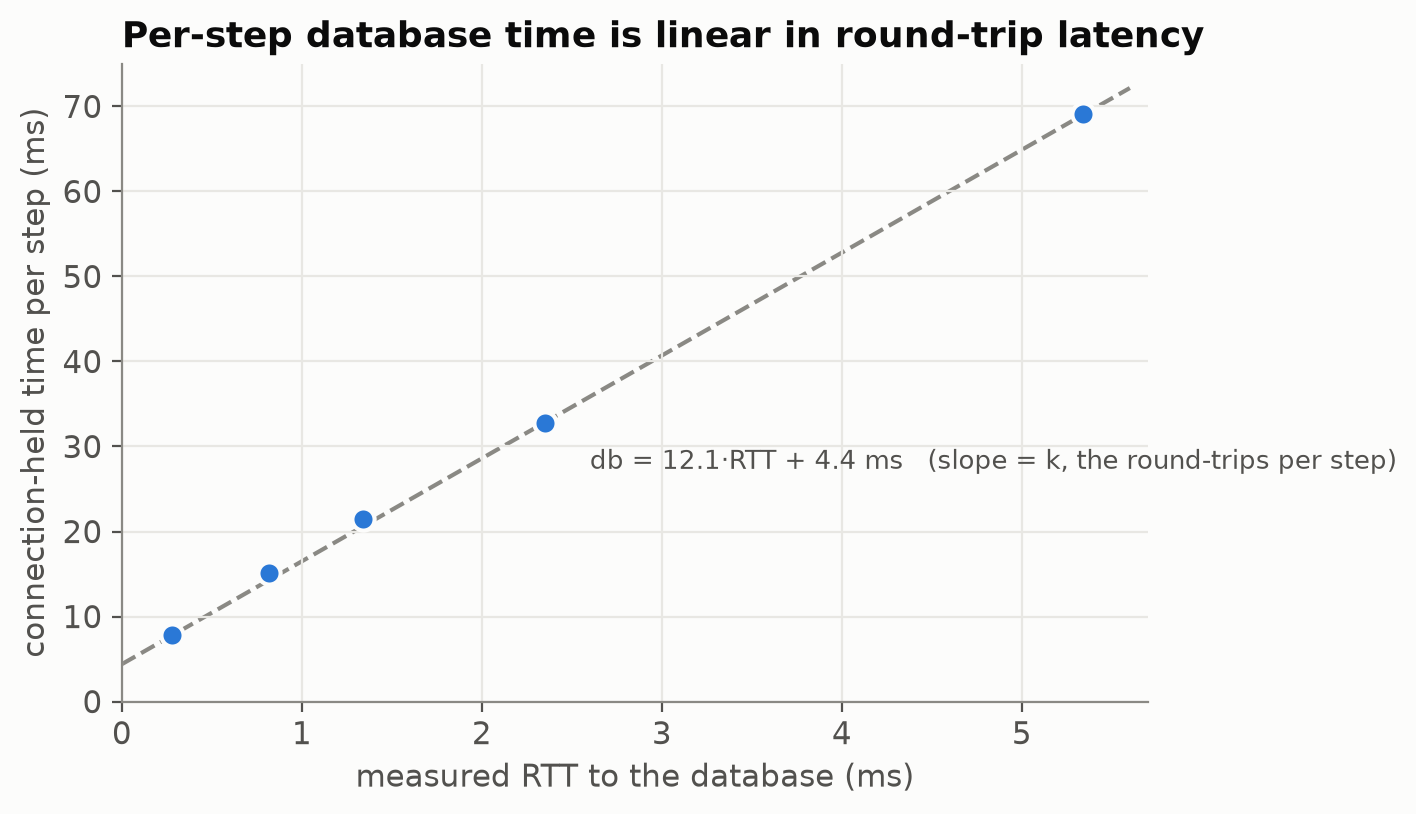
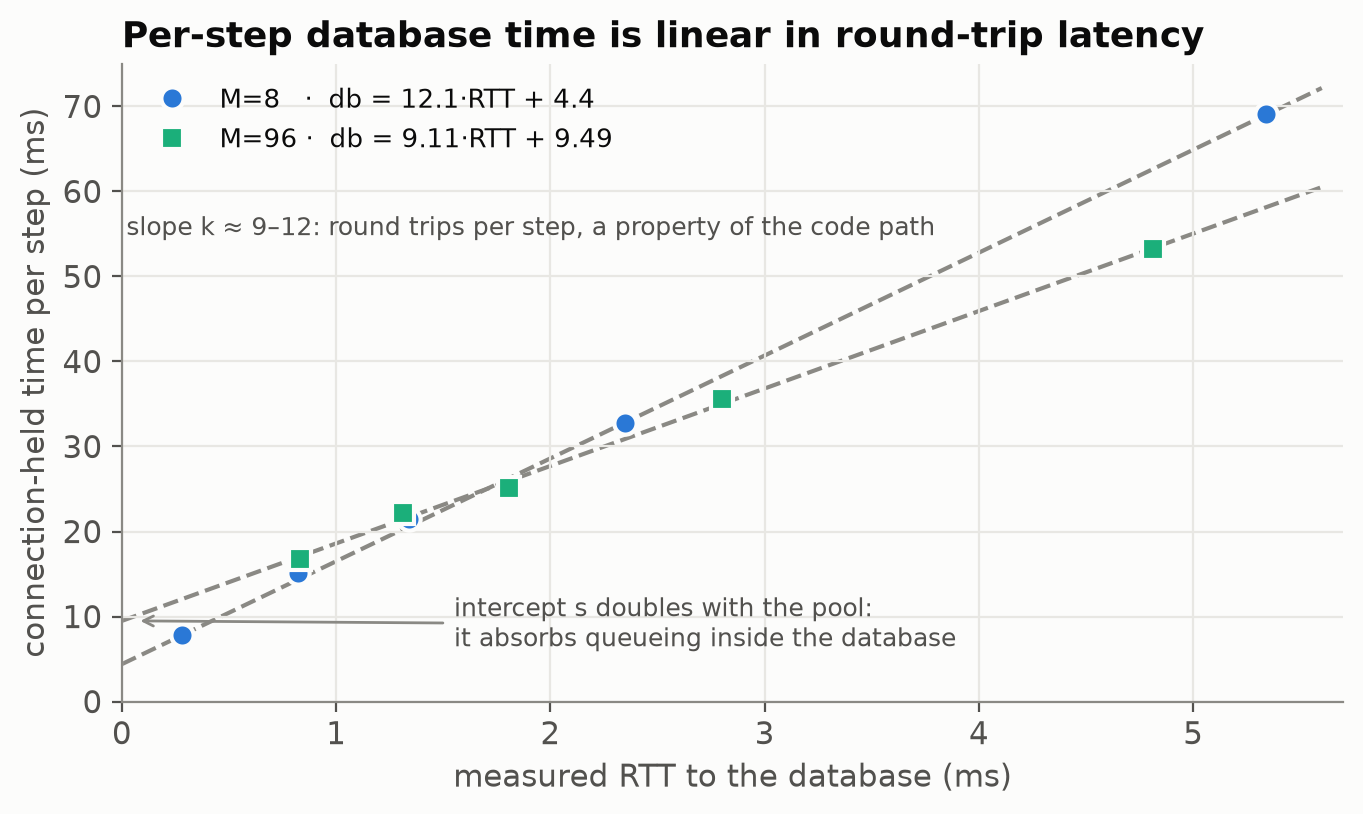
docs: the long-task bimodality is gone, and RTT is a sizing input
Three corrections and one addition, all from the 2026-08-01 GCP campaign.

THE BIMODALITY IS GONE. The self-tuning section said an 8-second arm near the
ceiling ranged 1,369-6,824 steps/s across three identical runs. Re-measured at
~80% of one 16-vCPU shard's knee: 3,004-3,285, a 1.09x spread, with the
zero-delay control repeating to the step. The mechanism it was blamed on is
still visible - the selection pass slows 2.9 to 48 ms and connection wait rises
2.2 to 30 ms - it simply stopped collapsing.

The causal sentence was also backwards. It read as though candidate supply lost
a fight with dispatch; the discard counter says supply was OVERSUPPLYING by
38-42% at 8 s tasks, so a slower scan cost nothing while workers were the scarce
side. Database CPU is flat at 43-49% across 0/1/8 s while the worker count grows
45x, which is the "a worker inside a task holds no connection" property measured
directly rather than argued. What long tasks still cost at that load is
offered-rate headroom: the arm serves ~72% of the commanded flow rate while
executing 92-101% of everything it creates, so it is flow CREATION that throttles.

"LATENCY COSTS CONNECTIONS, NOT THROUGHPUT" was true only where it was measured.
That sweep pinned M=8, far below the pool's knee, so there was headroom to raise
M and absorb the latency. At the pool the engine actually derives there is none:
4 ms of added distance costs 3.2x the throughput and nothing recovers it. The
[…]

diff --git a/bench/charts.py b/bench/charts.py
@@ -62,23 +62,59 @@ ax.set_ylim(0, 5000)
 ax.legend(loc="upper left", frameon=False, fontsize=9.5)
 finish(fig, ax, f"{OUT}/benchmark-cloud-tiers.png")
 
-# ---- 2. Latency: conn-held time vs RTT (the k measurement) ----
-rtt = [0.28, 0.82, 1.34, 2.35, 5.34]
-held = [8/1021.2*1000, 8/529.3*1000, 8/372.0*1000, 8/243.9*1000, 8/115.7*1000]
+# ---- 2. Latency: conn-held time vs RTT, at TWO pool sizes (the k and s measurements) ----
+# Two sweeps, and the pair is the point: the SLOPE (k, round trips per step) barely moves between them,
+# while the INTERCEPT (s, time actually inside the database) nearly doubles - s absorbs queueing, so it
+# grows with the pool. Carrying M=8 constants to an M=96 rig over-predicts throughput by 21-44%.
+rtt8 = [0.28, 0.82, 1.34, 2.35, 5.34]
+held8 = [8/1021.2*1000, 8/529.3*1000, 8/372.0*1000, 8/243.9*1000, 8/115.7*1000]
+rtt96 = [0.829, 1.313, 1.806, 2.800, 4.814]                       # campaign 27, linear, M=96
+held96 = [16.77, 22.19, 25.06, 35.63, 53.21]                      # every arm verified 96/96 in use
 fig, ax = plt.subplots(figsize=(7, 4.2))
 xs = [0, 5.6]
 ax.plot(xs, [12.1*x + 4.4 for x in xs], color=MUTED, linewidth=1.5, linestyle="--", zorder=1)
-ax.plot(rtt, held, color=S1, linewidth=0, marker="o", markersize=8, zorder=2,
-        markeredgecolor=SURFACE, markeredgewidth=1.5, label="measured (M=8, connection-bound)")
-ax.annotate("db = 12.1·RTT + 4.4 ms   (slope = k, the round-trips per step)",
-            (2.6, 12.1*2.6 + 4.4), xytext=(0, -26), textcoords="offset points",
-            color=INK2, fontsize=9.5, rotation=0)
+ax.plot(xs, [9.11*x + 9.49 for x in xs], color=MUTED, linewidth=1.5, linestyle="--", zorder=1)
+ax.plot(rtt8, held8, color=S1, linewidth=0, marker="o", markersize=8, zorder=3,
+        markeredgecolor=SURFACE, markeredgewidth=1.5, label="M=8   ·  db = 12.1·RTT + 4.4")
+ax.plot(rtt96, held96, color=S2, linewidth=0, marker="s", markersize=8, zorder=3,
+        markeredgecolor=SURFACE, markeredgewidth=1.5, label="M=96 ·  db = 9.11·RTT + 9.49")
+ax.annotate("slope k ≈ 9–12: round trips per step, a property of the code path",
+            (3.9, 12.1*3.9 + 4.4), xytext=(-8, 10), textcoords="offset points",
+            color=INK2, fontsize=9, ha="right")
+ax.annotate("intercept s doubles with the pool:\nit absorbs queueing inside the database",
+            (0.06, 9.49), xytext=(1.55, 6.5), textcoords="data", color=INK2, fontsize=9,
+            arrowprops=dict(arrowstyle="->", color=MUTED, lw=1))
 ax.set_title("Per-step database time is linear in round-trip latency")
 ax.set_xlabel("measured RTT to the database (ms)")
 ax.set_ylabel("connection-held time per step (ms)")
 ax.set_xlim(0, 5.7)
 ax.set_ylim(0, 75)
+ax.legend(loc="upper left", frameon=False, fontsize=9.5)
 finish(fig, ax, f"{OUT}/benchmark-cloud-latency.png")
+
+# ---- 2b. The operator-facing form: what RTT does to the CEILING at the derived pool ----
+# Same data as 2, expressed as throughput rather than occupancy, because that is the number an operator
+# is sizing against. The GENUINE-PLACEMENT points are the validation: if netem were not a faithful
+# stand-in for distance they would sit off the curve. They land within 2-6%.
+fig, ax = plt.subplots(figsize=(7, 4.2))
+xs = [x/100 for x in range(20, 520)]
+ax.plot(xs, [96/(9.11*x + 9.49)*1000 for x in xs], color=MUTED, linewidth=1.5, linestyle="--", zorder=1,
+        label="96 / (9.11·RTT + 9.49)")
+ax.plot(rtt96, [96/h*1000 for h in held96], color=S1, linewidth=0, marker="o", markersize=8, zorder=3,
+        markeredgecolor=SURFACE, markeredgewidth=1.5, label="injected latency (tc netem)")
+ax.plot([0.339, 0.378, 0.818], [7866, 7887, 5568], color=S3, linewidth=0, marker="D", markersize=8,
+        zorder=4, markeredgecolor=SURFACE, markeredgewidth=1.5,
+        label="genuine placements, two different instances")
+ax.annotate("two same-zone, same-tier instances —\n29% apart on placement alone",
+            (0.60, 6600), xytext=(1.35, 4400), textcoords="data", color=INK2, fontsize=9,
+            arrowprops=dict(arrowstyle="->", color=MUTED, lw=1))
+ax.set_title("Round-trip time sets the ceiling (16 vCPU, derived pool M=96)")
+ax.set_xlabel("measured RTT to the database (ms)")
+ax.set_ylabel("steps / second")
+ax.set_xlim(0, 5.2)
+ax.set_ylim(0, 9000)
+ax.legend(loc="lower left", frameon=False, fontsize=9.5)
+finish(fig, ax, f"{OUT}/benchmark-cloud-rtt-ceiling.png")
 
 # ---- 3. Workers x task delay (pre-fix engine, M=30) ----
 w0 = [(32, 443.5), (48, 558.9), (64, 641.8), (96, 696.6), (128, 707.2), (512, 744.1)]

diff --git a/docs/benchmark-cloud.md b/docs/benchmark-cloud.md
@@ -75,8 +75,8 @@ is negligible next to both. Every constant is measured:
 
 | Constant | Value | How measured |
 |---|---|---|
-| `k` — database round-trips per step | **~11** | the slope of connection-held time vs round-trip time in the [latency sweep](#latency-costs-connections-not-throughput) |
-| `s` — server-side execution + group-committed fsync | **~4.4 ms** | that sweep's intercept |
+| `k` — database round-trips per step | **~9–12** | the slope of connection-held time vs round-trip time in the [latency sweep](#round-trip-time-sets-the-ceiling); a property of the code path, so it travels — but a fan-out does more database work per step than the linear workload measured here |
+| `s` — server-side execution + commit, **plus queueing inside the database** | **~4.4 ms at `M=8`, ~9.5 ms at `M=96`** | the same sweep's intercept, at both pool sizes. **`s` grows with the pool and does not travel** — constants fitted at one `M` over-predict another by 21–44% |
 | `db` at low utilization, same-zone | **7–8 ms/step** | measured at `M=8`, a deliberately tiny pool that keeps the database far from saturation |
 | Connections the engine opens | **6 × database vCPUs**, or **12 ×** at 32 vCPUs and above | [the knee and the safe ratio](#connections-the-throughput-knee-and-the-safe-ratio-are-different-numbers) |
 | Steps ceiling, per database | **~555 to ~23,000 steps/s** for 1 to 64 vCPUs | [vertical scaling](#database-size-vertical-scaling-from-1-to-64-vcpus) |
@@ -120,6 +120,14 @@ leaves the diagonal is the whole chart: that is the load the instance actually s
 servable point lands at **70–90% database CPU**, and every arm above ~90% is either collapsed or running
 multi-second p99. Size to keep the database in that band and the connection arithmetic mostly takes care
 of itself.
+
+**⚠ That band assumes a well-placed database, and it does not travel.** It was calibrated at ~0.3 ms
+round-trip time. On a longer path the connections run out *before* the CPU does: at 0.8 ms the same
+16-vCPU shard reaches its ceiling with the pool pinned at 96/96 and the database sitting at **51%
+CPU**, with 45% of it idle and unreachable. Chasing the 70–90% band there means adding connections to
+hit a number that path cannot produce — and over-connecting is the one failure mode that collapses
+rather than degrading. **Check round-trip time first**; if the ceiling arrives at low CPU, the limit is
+distance, not size. See [round-trip time sets the ceiling](#round-trip-time-sets-the-ceiling).
 
 **⚠ The 32 and 64-vCPU points are bounds, not measured ceilings.** Database CPU at their best arms was
 49% and 24% — neither instance was ever driven to its own limit, because the 32-vCPU engine host driving
@@ -226,7 +234,7 @@ traffic on a single lock (113 concurrent waiters, the same as the baseline's 115
 arm split it across two independent locks (110 + 69). **Horizontal sharding across servers is the write
 scaling lever**; there is no way to buy it inside one instance.
 
-## Latency costs connections, not throughput
+## Round-trip time sets the ceiling
 
 ![Per-step database time vs round-trip latency](benchmark-cloud-latency.png)
 
@@ -249,10 +257,54 @@ A step makes ~11 of them (a freshly created step is dispatched without a re-read
 `k ≈ 11`** and treat the fitted 12.1 as the sweep's own configuration. The intercept is `s`, the
 server-side execution and commit time that remains when the network is free.
 
-The practical reading: per-connection throughput halves as `k·L` doubles — and total throughput recovers
-by raising `M` (until the knee), so latency is a **connections tax, not an absolute cap**. Cross-zone
-placement (~1.1 ms) roughly doubles `db` against same-zone; co-locating the engine with its shard's zone
-is the single cheapest win available.
+The practical reading at this pool size: per-connection throughput halves as `k·L` doubles, and total
+throughput recovers by raising `M` — so *while there is pool headroom*, latency is a connections tax.
+
+**⚠ At the pool the engine actually derives, that headroom is gone and latency becomes a hard
+throughput cap.**
+
+![Round-trip time sets the ceiling at the derived pool](benchmark-cloud-rtt-ceiling.png)
+
+Repeating the sweep on a 16-vCPU shard at its derived `M=96` — every arm verified saturated at 96 of 96
+connections in use, two reps each:
+
+| added delay (ms) | measured RTT (ms) | steps/s | connection-held time (ms/step) |
+|---|---|---|---|
+| +0 | 0.83 | 5,724 | 16.8 |
+| +0.5 | 1.31 | 4,326 | 22.2 |
+| +1 | 1.81 | 3,831 | 25.1 |
+| +2 | 2.80 | 2,695 | 35.6 |
+| +4 | 4.81 | 1,805 | 53.2 |
+
+`db = 9.11·RTT + 9.49 ms`, so **4 ms of extra distance costs 3.2× the throughput** — and there is no `M`
+left to raise, because 96 is already the ratio the engine derives and the next step up trades a modest
+gain for the over-connection collapse. Latency is a connections tax only until the pool reaches its knee;
+past that it is the ceiling.
+
+**The intercept `s` is the term that does not travel.** It is 4.4 ms at `M=8` and **9.49 ms at `M=96`** —
+`s` absorbs queueing inside the database, so it grows with the pool. Carrying constants fitted at one
+pool size to another over-predicts throughput by 21–44%.
+
+**The slope `k` does travel**, because it counts round trips, which is a property of the code path rather
+than of the load. It measures 12.1 and 9.11 at the two pool sizes above, and — contrary to the obvious
+expectation — **a fan-out workload does not raise it**: width-16 fan-out measures **8.67** against the
+linear chain's 9.11, a gap inside that workload's own run-to-run spread. Plan with **`k ≈ 9–12`**
+regardless of graph shape. (The intuition that fan-outs cost more is about the wrong unit: a fan-out
+costs more per *flow*, but throughput is per *step*, and most of its steps are branches that create no
+successor at all.)
+
+**This is also why two of this document's own numbers disagree.** A 16-vCPU shard at pool 96 appears as
+both 7,491 steps/s (the [tier ladder](#database-size-vertical-scaling-from-1-to-64-vcpus)) and 5,355 (the
+[connection sweep](#connections-the-throughput-knee-and-the-safe-ratio-are-different-numbers)). One
+equation, two placements: evaluated at the RTTs those campaigns actually ran at, the model predicts
+7,739 and 5,659. **Same hardware, same build — 29% apart on distance alone.**
+
+Two consequences worth acting on. **Record RTT beside every throughput number**, or results are not
+comparable across sessions; `T(ref) = T · (k·RTT + s) / (k·RTT_ref + s)` normalizes them. And
+**co-locating the engine with its shard's zone is the single cheapest win available** — cross-zone
+(~1.1 ms) roughly doubles `db` against same-zone. Note that even *within* one zone, placement varied
+0.32–0.82 ms across instances, and on a managed database the zone is the finest control available; see
+[deployment](deployment.md#network-distance-to-the-database).
 
 ## Workers: throughput is `N/T` when workers bind
 
@@ -495,9 +547,12 @@ set is 384, so anything beyond that requires growth:
 
 Throughput tracks `flows ÷ task duration` exactly at every level: the engine holds 10,000 minutes-long
 tasks in flight against a 48-connection pool, and median flow latency is 60.0 s — the task duration
-itself, with no queueing. The same shape holds on a 16-vCPU shard, where the database-work allowance
-(a fixed multiple of that shard's 96 connections) reads **completely untouched at all three levels** — 10,000 workers
-parked in tasks consume none of it, which is why they cost the database nothing.
+itself, with no queueing. The same shape holds on a 16-vCPU shard, where the allowance for concurrent
+database work (a fixed multiple of that shard's 96 connections) reads **completely untouched at all
+three levels** — 10,000 workers parked in tasks consume none of it, which is why they cost the database
+nothing. `dwarf_turnstile_available` is the gauge to confirm this on your own workload: a worker inside
+a task holds no allowance and no connection, so a rising worker count with a flat gauge is the expected
+and healthy shape.
 
 **Seconds-long tasks: throughput is set by the database, not by the task.** The harder case is a task
 long enough to tie up a worker but short enough that the database still has to keep up. Open-loop at a
@@ -514,15 +569,28 @@ The full offered rate, three times, with a 0.03% spread — while holding 24,000
 the `300 flows/s × 80 s` the workload implies. **Task duration has dropped out of the throughput
 equation entirely**; what remains is `min(offered load, database capacity)`.
 
-**Near the instance's ceiling the same workload becomes run-to-run bimodal**, and it is worth knowing why
-before reading it as a task-duration effect. At a commanded 600 flows/s — around 80% of what this shard
-serves — the 8-second arm ranged from 1,369 to 6,824 steps/s across three otherwise identical runs. The
-worker count was large in every one; what differed was the database: the pool ran fully in use with
-**~50 ms of wait per connection acquired**, against 2 ms at half the rate, and the engine's own
-candidate-selection pass slowed from ~120 ms to ~320 ms and halved its rate. Long tasks put more workers
-in front of the same connections, so at saturation the supply of work to dispatch competes with the work
-itself. Size for the [70–90% database CPU band](#database-size-vertical-scaling-from-1-to-64-vcpus) and
-this does not arise.
+**Near the instance's ceiling the same workload used to be run-to-run bimodal. It no longer is.** At
+~80% of what one 16-vCPU shard serves, three otherwise identical 8-second runs land within **1.09× of
+each other** (3,004–3,285 steps/s), and the zero-delay control repeats to the step (4,501 / 4,501 /
+4,501). An earlier engine measured a **5.0×** range on the equivalent arm.
+
+The mechanism the spread came from is still visible — it simply stopped collapsing. Across 0 / 1 / 8
+second tasks at a fixed offered rate, the candidate-selection pass slows **2.9 ms → 48 ms**, its rate
+roughly halves, and connection wait rises **2.2 ms → 30 ms**. What changed is that this now degrades
+smoothly instead of falling off a cliff.
+
+It is worth being precise about which half of that was ever the problem, because the obvious reading is
+wrong: **the supply of work to dispatch was never the loser.** In the same 8-second arms the engine
+*discards* 38–42% of the candidates it selects — it is oversupplying by 40% even with 48 ms selection
+passes — so a slower scan costs nothing while workers remain the scarce side. Blocked workers hold no
+connection, so a long task cannot crowd the database: **database CPU is flat at 43–49% across all three
+arms** while the worker count grows 45×.
+
+What long tasks still cost at this load is *offered-rate* headroom rather than throughput. The
+8-second arm serves ~72% of the commanded flow rate while executing **92–101% of every flow it
+creates** — the engine keeps up with what arrives, and it is flow *creation* that throttles, competing
+for the same connections as the work already in flight. Below roughly half an instance's capacity the
+arms converge outright (see the table above); at 80% they do not.
 
 A worker inside a task holds no database connection, so worker count and database load are separate
 quantities. The engine adds a worker when taking a candidate left no other worker free — one condition,
@@ -598,9 +666,13 @@ memory-bounded hosts, and externally-constrained connection budgets.
   shard's cycle diverge is unresolved. Quote multi-shard numbers with their replicate range.
 - **Replica scaling is measured against one shard only, with replicas as engines inside one process.** No
   per-replica memory figure, and no hard-kill test of the stale-registration path.
-- **Where a long-task workload stops serving its offered load is not pinned.** Measured stable at half an
-  instance's capacity and bimodal at ~80% of it, with nothing in between; the knee is somewhere in that
-  gap, and it is a property of the database's spare capacity rather than of the tasks.
+- **The knee is now located, and it is a property of the database rather than of the tasks.** Sweeping the
+  offered rate on one 16-vCPU shard, throughput tracks what is offered to **99.6%** and departs from it
+  by **92.5%** one rung later — the knee is that narrow. Past it the arms are no longer bimodal (see
+  above), but they *are* non-monotonic: an over-driven rung can serve *less* than a harder-driven one
+  while carrying a deeper, older backlog, so a single over-ceiling arm is not a reliable ceiling
+  measurement. Read the share of generated steps that were executed, not steps/s, and treat any reading
+  above the rate ladder's own ceiling as a backlog drain rather than a result.
 - **Mixed short and long tasks on one engine are not measured.** Nothing about the sizing refers to task
   duration, so the expectation is that they compose — but the benchmark applies one task delay globally
   and cannot express the case.

diff --git a/docs/deployment.md b/docs/deployment.md
@@ -94,6 +94,47 @@ strongly workload-dependent — a carry-heavy or fan-out graph writes far more p
 one — which is exactly why the right disk size is something you measure rather than guess. When
 throughput is repeatable, the disk has enough headroom; provisioning past that point buys nothing.
 
+## Network distance to the database
+
+**Round-trip time to the database is a first-class sizing input, not a detail.** A saturated shard
+serves roughly
+
+```
+throughput  =  connections / (k × RTT + s)
+```
+
+where `k` is the number of database round trips one step makes — measured at **~9–12** — and `s` is the
+per-step time that is not a round trip. Because `k` multiplies RTT, **every 0.1 ms of extra distance
+costs about a millisecond of connection time on every step in the system.**
+
+This is not a rounding error. Two Cloud SQL instances of identical size, in the same region **and the
+same zone**, measured **0.32 ms and 0.82 ms** — and the second served **29% less throughput** on an
+identical build. Nothing about the engine or the database differed; only where the instance happened to
+land.
+
+**Three things are worth doing, in order of payoff:**
+
+1. **Put the database in the same zone as the engine**, not merely the same region. Cross-zone is the
+   single largest avoidable jump.
+2. **Connect over a private IP, and avoid a connection proxy** on the hot path. A proxy adds a hop to
+   every one of those `k` round trips.
+3. **Measure it, and keep measuring it.** Take the *minimum* of a dozen `SELECT 1`s on **one long-lived
+   connection** (a fresh connection per sample measures the handshake instead, and a proxy or container
+   socket measures the wrong path entirely).
+
+**On managed databases, the zone is the finest control you get.** Cloud SQL exposes no rack- or
+host-level placement, so the variation above is a lottery you can only re-roll by recreating the
+instance. If round-trip time turns out to bound your workload and you need better, the escape hatch is
+running PostgreSQL yourself on compute instances, where cloud providers *do* offer co-location controls
+(GCP's compact placement policies, for example) — at the cost of owning backups, failover and patching.
+That is a real trade, worth making only once you have measured that distance is what binds.
+
+**How to tell that it is.** Compare your ceiling against database CPU. If throughput flattens while the
+connection pool sits fully in use and the database still has substantial idle CPU, the limit is
+distance, not size — the connections are spending their time on the wire, and **adding connections to
+chase a CPU target that path cannot reach is how you find the over-connection collapse.** A bigger
+instance does not fix a long wire; a closer one does.
+
 ## Sharding
 
 Registering multiple shards with `SetShard` partitions flows across databases (or schemas) to scale write
